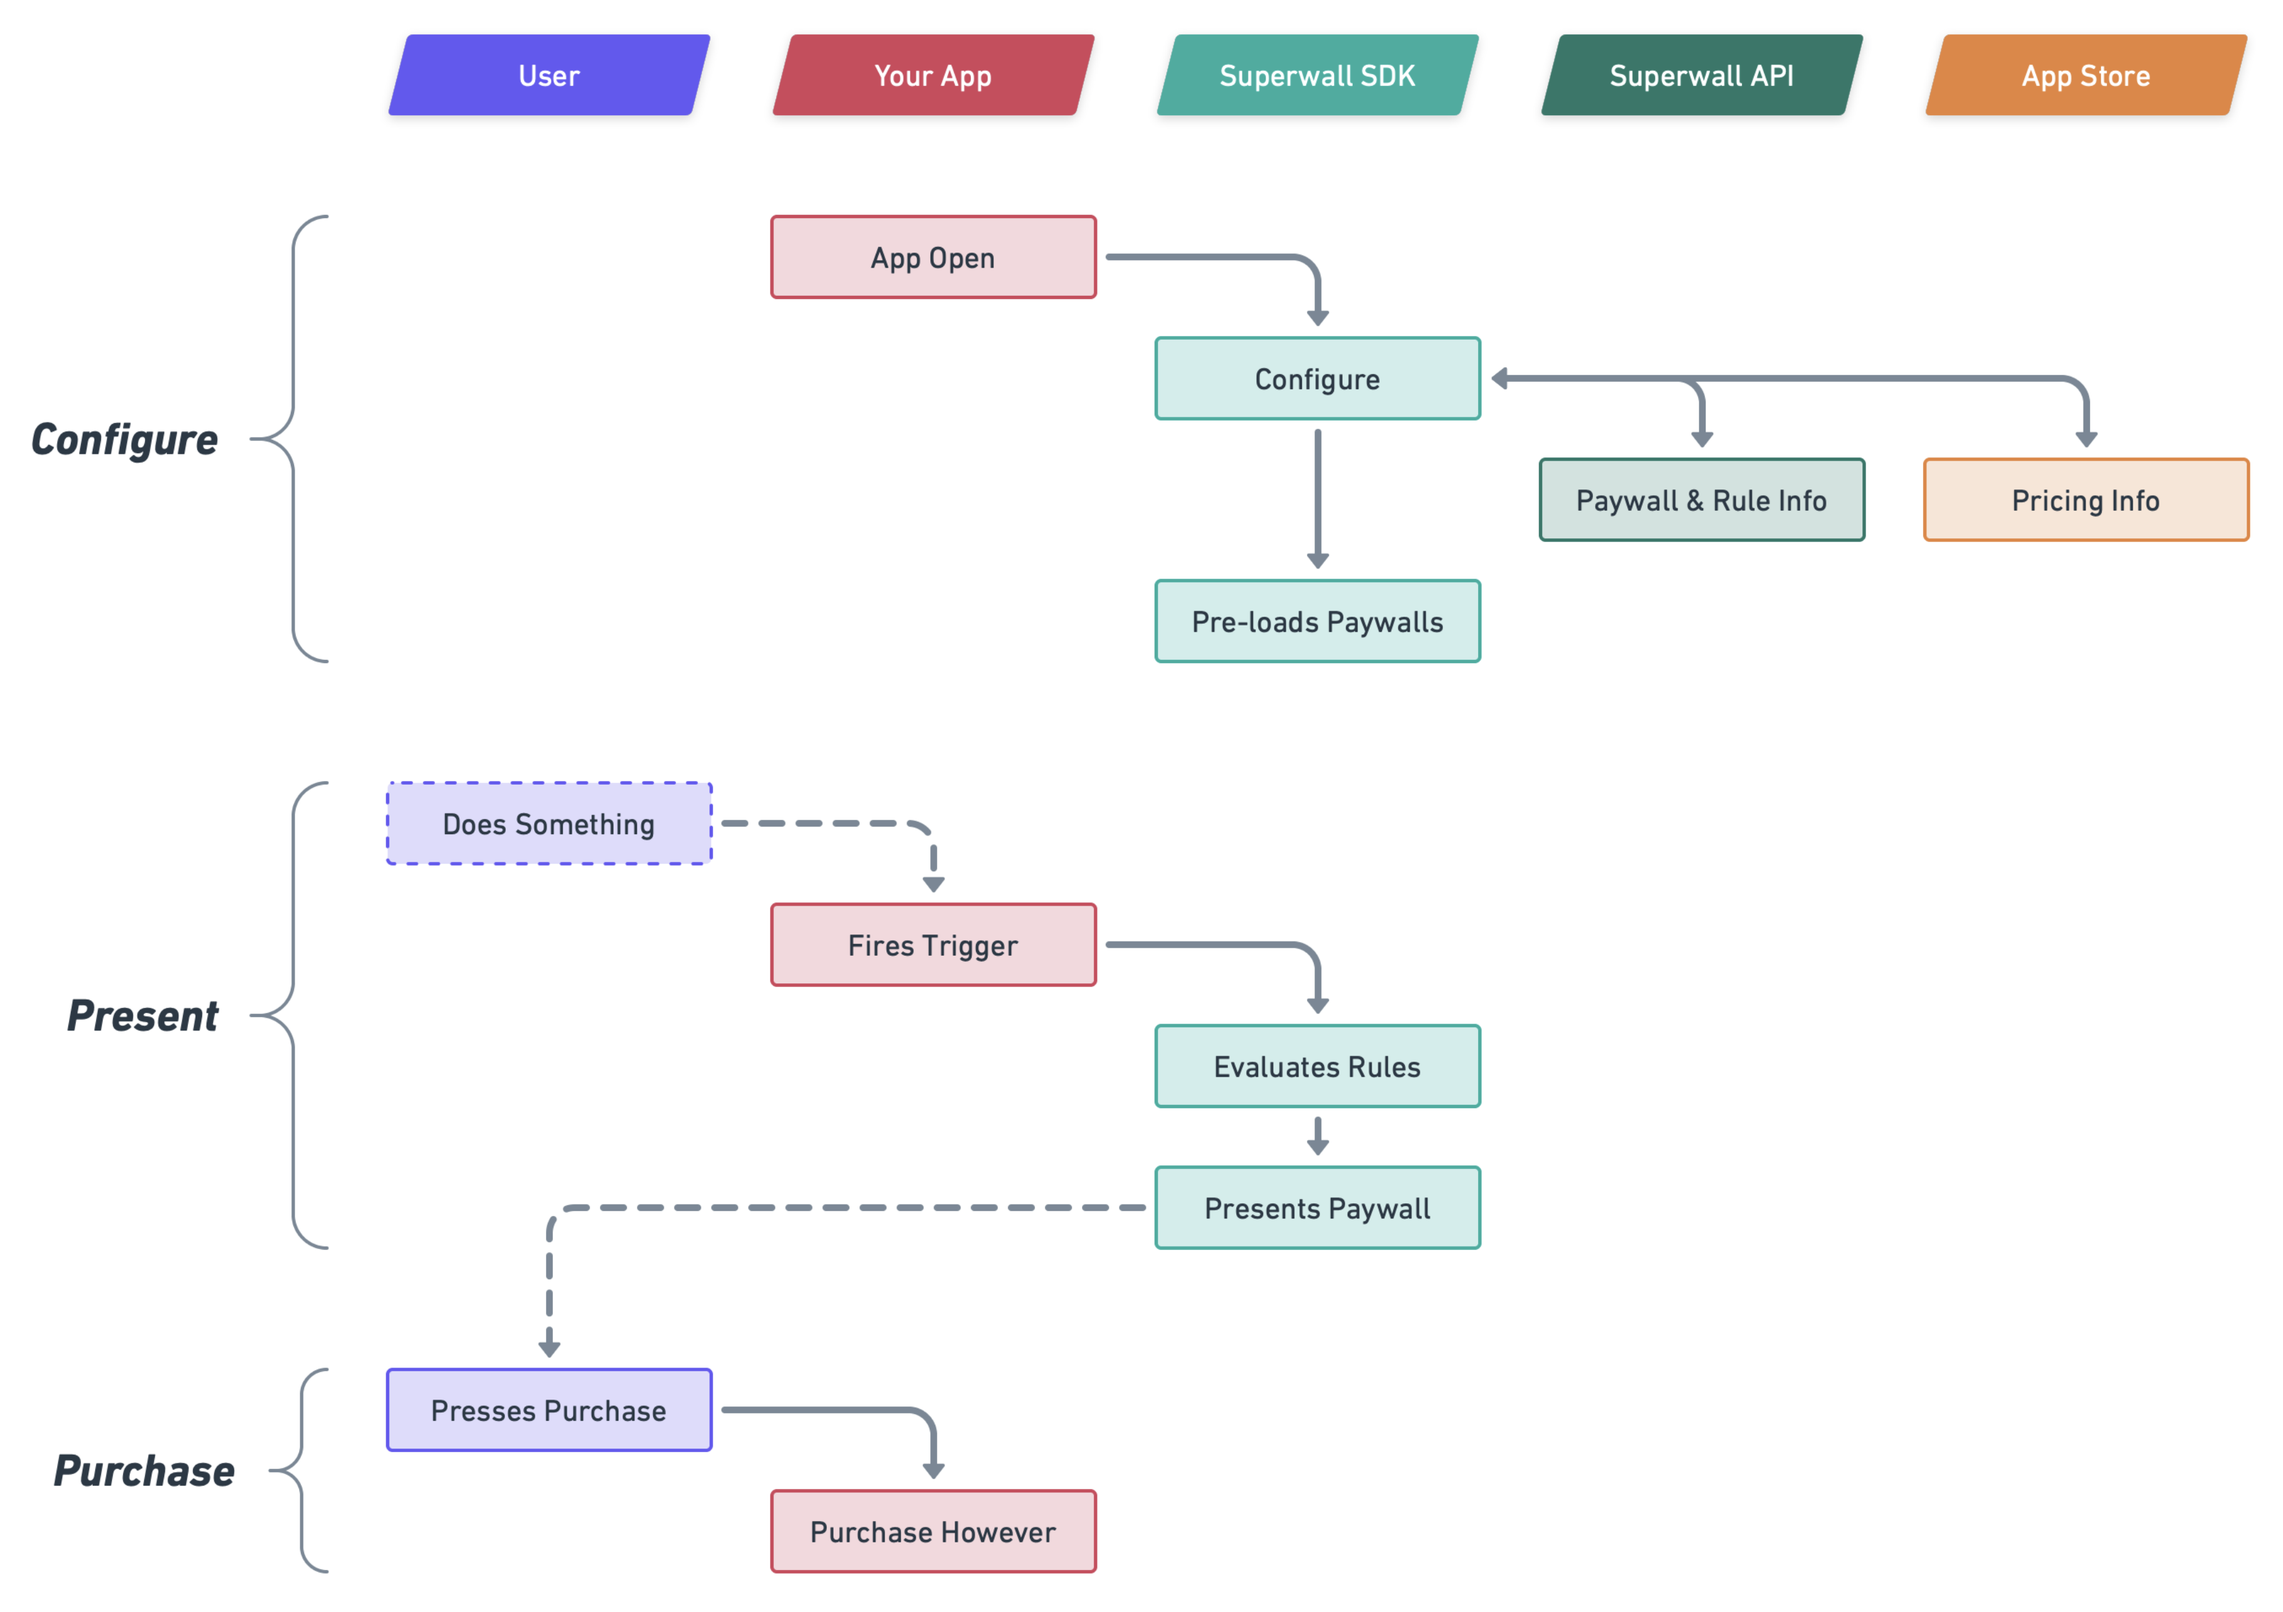
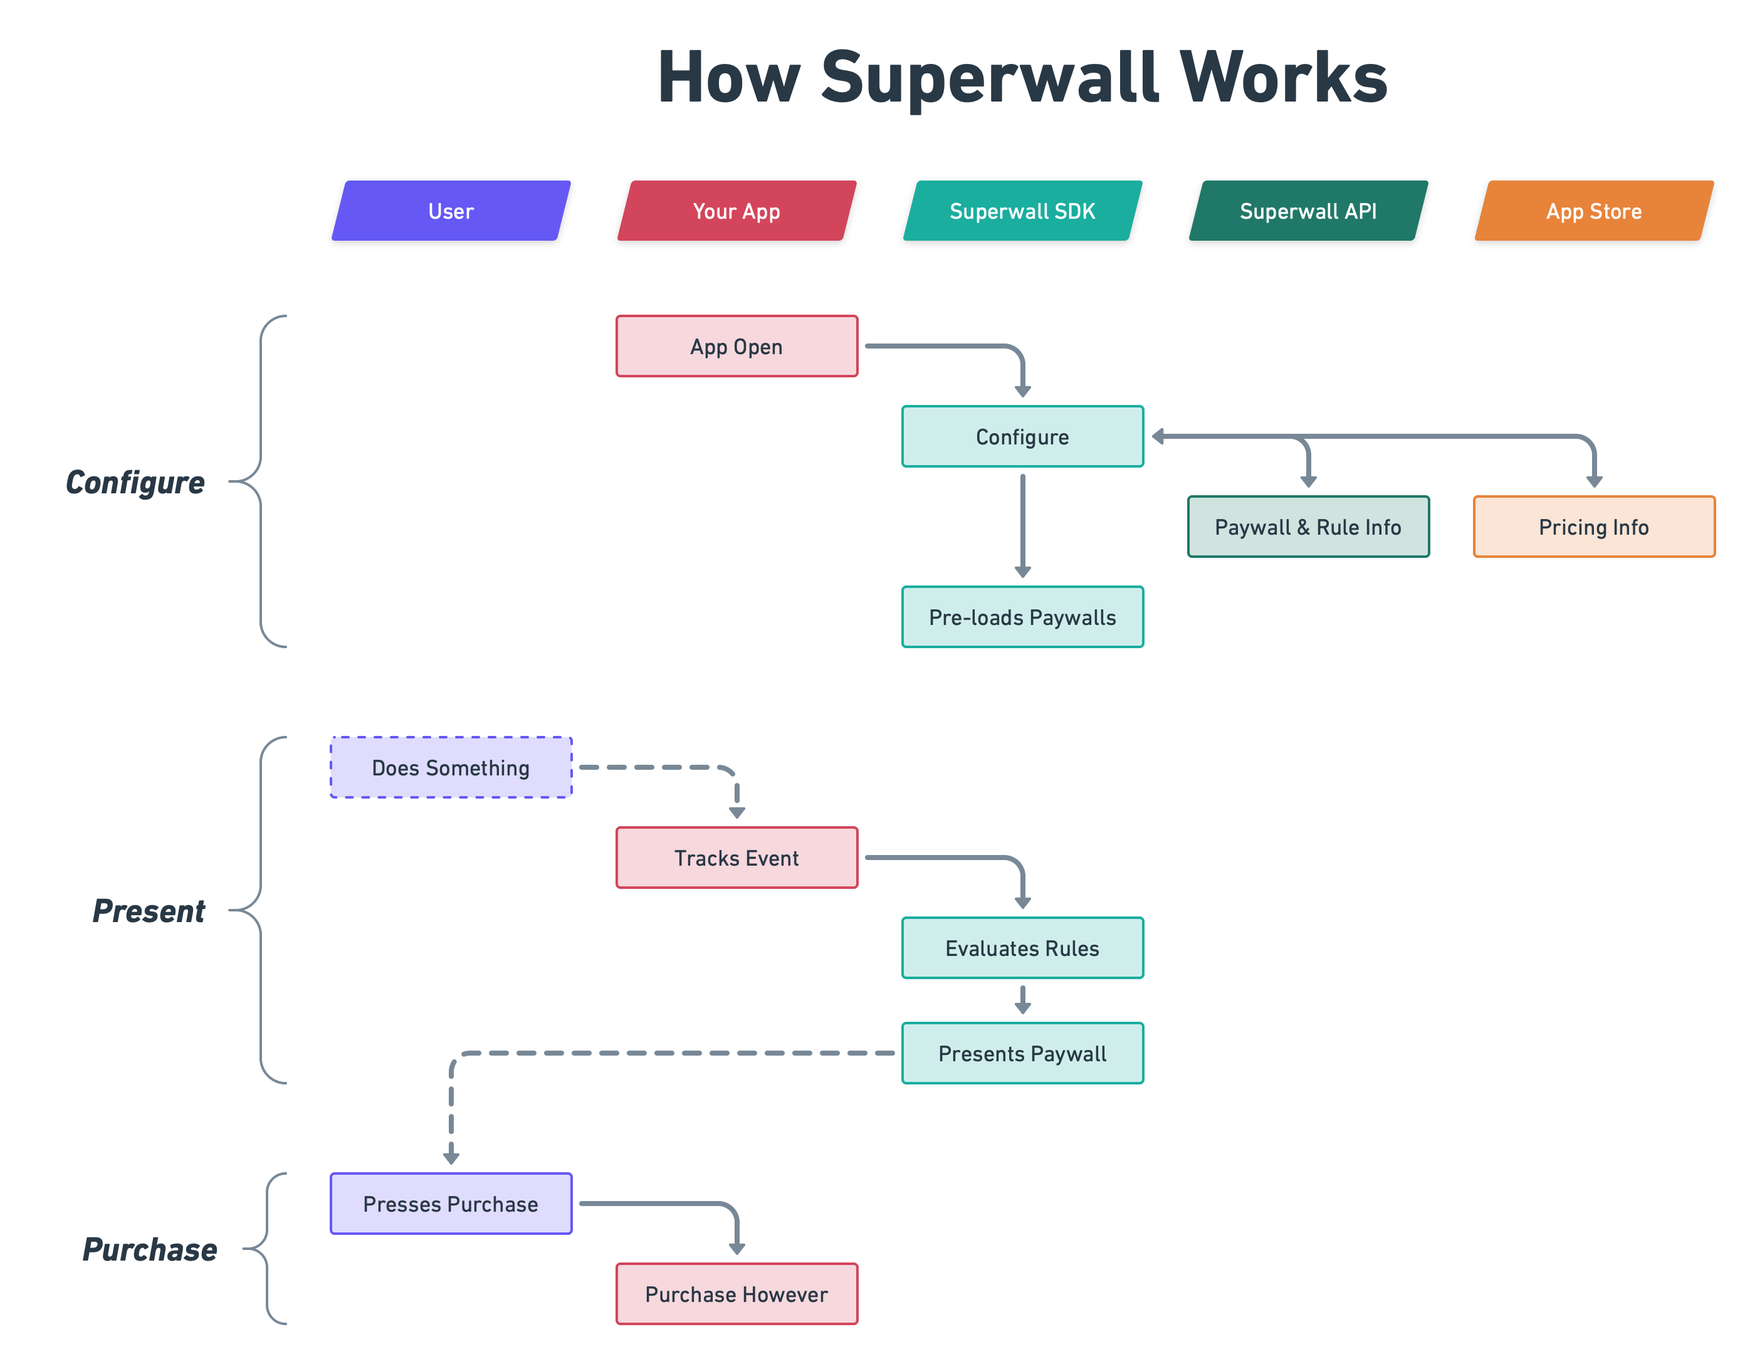
Updated documentation in relation to track

diff --git a/Sources/Paywall/Paywall/Paywall Presentation/UIKit/PublicPaywallPresentation.swift b/Sources/Paywall/Paywall/Paywall Presentation/UIKit/PublicPaywallPresentation.swift
@@ -52,7 +52,7 @@ public extension Paywall {
   ///
   /// The paywall shown to the user is determined by the rules defined in the campaign. Paywalls are sticky, in that when a user is assigned a paywall within a rule, they will continue to see that paywall unless you remove the paywall from the rule.
   ///
-  /// For more information, see <doc:Triggering>.
+  /// For more information, see <doc:TrackingEvents>.
   ///
   /// - Parameters:
   ///   -  event: The name of the event you wish to trigger (equivalent to event name in ``Paywall/Paywall/track(_:_:)-2vkwo``)
@@ -111,9 +111,9 @@ public extension Paywall {
   ///
   /// Before using this method, you'll first need to create a campaign and add the event to the campaign on the [Superwall Dashboard](https://superwall.com/dashboard).
   ///
-  /// The paywall shown to the user is determined by the rules defined in the campaign. When a user is assigned a paywall within a rule, they will continue to see that paywall unless you remove the paywall from the rule or reassign users to the rule.
+  /// The paywall shown to the user is determined by the rules defined in the campaign. When a user is assigned a paywall within a rule, they will continue to see that paywall unless you remove the paywall from the rule or reset assignments to the paywall.
   ///
-  /// For more information, see <doc:Triggering>.
+  /// For more information, see <doc:TrackingEvents>.
   ///
   /// - Parameters:
   ///   -  event: The name of the event you wish to track
@@ -146,9 +146,9 @@ public extension Paywall {
   ///
   /// Before using this method, you'll first need to create a campaign and add the event to the campaign on the [Superwall Dashboard](https://superwall.com/dashboard).
   ///
-  /// The paywall shown to the user is determined by the rules defined in the campaign. When a user is assigned a paywall within a rule, they will continue to see that paywall unless you remove the paywall from the rule or reassign users to the rule.
+  /// The paywall shown to the user is determined by the rules defined in the campaign. When a user is assigned a paywall within a rule, they will continue to see that paywall unless you remove the paywall from the rule or reset assignments to the paywall.
   ///
-  /// For more information, see <doc:Triggering>.
+  /// For more information, see <doc:TrackingEvents>.
   ///
   /// - Parameters:
   ///   -  event: The name of the event you wish to track

diff --git a/Examples/SuperwallUIKitExample/SuperwallUIKitExample/TrackEventViewController.swift b/Examples/SuperwallUIKitExample/SuperwallUIKitExample/TrackEventViewController.swift
@@ -7,11 +7,12 @@
 
 import UIKit
 import Paywall
-// import Combine
+import Combine
 
 final class TrackEventViewController: UIViewController {
   @IBOutlet private var subscriptionLabel: UILabel!
-  // private var cancellable: AnyCancellable?
+  private var subscribedCancellable: AnyCancellable?
+  private var trackCancellable: AnyCancellable?
 
   static func fromStoryboard() -> TrackEventViewController {
     let storyboard = UIStoryboard(
@@ -33,7 +34,7 @@ final class TrackEventViewController: UIViewController {
 
   override func viewDidLoad() {
     super.viewDidLoad()
-    StoreKitService.shared.isSubscribed
+    subscribedCancellable = StoreKitService.shared.isSubscribed
       .sink { [weak self] isSubscribed in
         if isSubscribed {
           self?.subscriptionLabel.text = "You currently have an active subscription. Therefore, the paywall will never show. For the purposes of this app, delete and reinstall the app to clear subscriptions."
@@ -41,7 +42,6 @@ final class TrackEventViewController: UIViewController {
           self?.subscriptionLabel.text = "You do not have an active subscription so the paywall will show when clicking the button."
         }
       }
-      .store(in: &cancellables)
   }
 
   @IBAction private func trackEvent() {
@@ -60,7 +60,6 @@ final class TrackEventViewController: UIViewController {
         case .restored:
           print("The product was restored.")
         }
-      }
       case .skipped(let reason):
         switch reason {
         case .holdout(let experiment):
@@ -72,6 +71,7 @@ final class TrackEventViewController: UIViewController {
         case .error(let error):
           print("Failed to present paywall. Consider a native paywall fallback", error)
         }
+      }
     }
   }
 
@@ -79,7 +79,7 @@ final class TrackEventViewController: UIViewController {
 
   /*
    func trackEventUsingCombine() {
-   cancellable = Paywall
+   trackCancellable = Paywall
      .track(event: "MyEvent")
      .sink { paywallState in
        switch paywallState {

diff --git a/Sources/Paywall/Paywall/Events/PublicEvents.swift b/Sources/Paywall/Paywall/Events/PublicEvents.swift
@@ -10,7 +10,7 @@ import Foundation
 public extension Paywall {
   /// Tracks a custom analytical event with optional parameters.
   ///
-  /// Any event you track is recorded in the Superwall Dashboard. You can use these events to create implicit triggers. See <doc:Triggering> for more info.
+  /// Any event you track is recorded in the Superwall Dashboard. You can use these events to create implicit triggers. See <doc:TrackingEvents> for more info.
   ///
   /// - Parameter name: The name of your event
   /// - Parameter params: Custom parameters you'd like to include in your event. Keys beginning with `$` are reserved for Superwall and will be dropped. Values can be any JSON encodable value, URLs or Dates. Arrays and dictionaries as values are not supported at this time, and will be dropped.

diff --git a/Sources/Paywall/Paywall/Paywall Presentation/SwiftUI/View+Track.swift b/Sources/Paywall/Paywall/Paywall Presentation/SwiftUI/View+Track.swift
@@ -64,7 +64,7 @@ extension View {
   ///       }
   ///     }
   ///
-  /// For more information, see <doc:Triggering>.
+  /// For more information, see <doc:TrackingEvents>.
   ///
   /// **Please note**:
   /// In order to trigger a paywall, the SDK must have been configured using ``Paywall/Paywall/configure(apiKey:userId:delegate:options:)``.

diff --git a/Sources/Paywall/Documentation.docc/Ecosystem.md b/Sources/Paywall/Documentation.docc/Ecosystem.md
@@ -6,19 +6,19 @@ An overview of how Superwall works in relation to your app.
 
 Superwall is built on 3 core principles:
 
-1. Triggers
+1. Events
 2. Rules
 3. Paywalls
 
-When your app executes a **trigger**, evaluate a **rule** to decide which **paywall** to show the user.
+When your app tracks an **event**, evaluate a **rule** to decide which **paywall** to show the user.
 
-Triggers and Rules are grouped in a concept we call **Campaigns**.
+Events and Rules are grouped in a concept we call **Campaigns**.
 
 ## Rapid Iteration
 
 Paywalls and Campaigns are all defined in the [Superwall Dashboard](https://superwall.com/dashboard). If you don't already have a Superwall account, you can [sign up for free](https://superwall.com/sign-up).
 
-Integrating the Paywall SDK into your app is usually the last time you'll have to write paywall related code.
+Integrating the Superwall SDK into your app is usually the last time you'll have to write paywall related code.
 
 This allows you to iterate on 5 key aspects of your monetization flow, without shipping app updates:
 
@@ -29,9 +29,11 @@ This allows you to iterate on 5 key aspects of your monetization flow, without s
 - Discounts
 - Paywalls
 
-Superwall uses a script called **Paywall.js** to turn websites into paywall templates. The Paywall SDK loads these websites inside a `UIWebView`, and executes javascript on them to replace text and template product information. This gives you the flexibility to turn any design into a paywall and update it remotely.
+All paywalls are websites. Superwall uses a script called **Paywall.js** to turn these websites into paywall templates. The SDK loads the websites inside a `UIWebView` and executes javascript on them to replace text and template product information. This gives you the flexibility to turn any design into a paywall and update it remotely.
 
-Since building websites can be tedious, Superwall maintains a [clonable Webflow template](https://webflow.com/website/45-Paywall-Elements?ref=showcase-search&searchValue=superwall) including ~50 of the most prominent paywall elements we've seen across thousands of apps.
+Since building websites can be tedious, we maintain a growing list of highly converting paywall templates for you to choose from. These designs are used by some of the biggest apps on the App Store and are perfect to get you up and running in no time.
+
+However, if you'd like to build your own paywall website from scratch, we recommend using Webflow. We maintain a [clonable Webflow template](https://webflow.com/website/45-Paywall-Elements?ref=showcase-search&searchValue=superwall) that includes ~50 of the most prominent paywall elements we've seen across thousands of apps, which you're welcome to use.
 
 ## Rules
 
@@ -39,9 +41,9 @@ Rules allow you to conditionally show a paywall to a user. For example, you may 
 
 Rule evaluations happen client side, so no network requests are fired to determine whether or not to show a paywall.
 
-## Triggers
+## Events
 
-A trigger is an analytics event you can wire up to specific rules. The Paywall SDK listens for these analytics events and evaluates their rules to determine whether or not to show a paywall when the trigger is fired.
+Events are added to campaigns and are tracked via the SDK. The SDK listens for these events and evaluates their rules to determine whether or not to show a paywall.
 
 ## Inner workings of the SDK
 

diff --git a/Sources/Paywall/Documentation.docc/TrackingEvents.md b/Sources/Paywall/Documentation.docc/TrackingEvents.md
@@ -1,0 +1,81 @@
+# Tracking Events
+
+Show a paywall in your app in response to a tracked event.
+
+## Overview
+
+You can retroactively decide where and when to show a paywall in your app by tracking events.
+
+Events are added to campaigns on the [Superwall Dashboard](https://superwall.com/dashboard) and are tracked via the SDK. The SDK listens for these events and evaluates their rules to determine whether or not to show a paywall.
+
+When a user is assigned a paywall within a rule, they will continue to see that paywall unless you remove the paywall from the rule or reset assignments to the paywall.
+
+In addition to your own events, you can add the Superwall events `app_install`, `app_launch`, and `session_start` to a campaign. See [automatically tracked events](<doc:AutomaticallyTrackedEvents>) for more.
+
+## Presenting a Paywall
+
+When you sign up for a Superwall account, we give you an example paywall and campaign to test your integration. The example campaign contains an event called `campaign_trigger`, which you'll track in your app when you want to show the paywall.
+
+For both SwiftUI and UIKit apps, you use ``Paywall/Paywall/track(event:params:paywallOverrides:paywallState:)`` to track events:
+
+```swift
+Superwall.track(
+  event: "campaign_trigger"
+) { paywallState in
+  switch paywallState {
+  case .presented(let paywallInfo):
+    break
+  case .dismissed(let result):
+    break
+  case .skipped(let reason):
+    break
+}
+```
+
+In this example, you're tracking the event `campaign_trigger`. You then utilize the optional `paywallState` callback to handle the paywall presentation state. You can also pass parameters to be used in rules and overrides to replace default paywall functionality.
+
+We recommend tracking all of your analytical events to Superwall. That way you can retroactively add a paywall to any of your events, should you decide to.
+
+## Integrating with Existing Analytics
+
+If you're already set up with an analytics provider, you'll typically have an `Analytics.swift` singleton (or similar) to disperse all your events from. Here's how that file might look:
+
+```swift
+import Paywall
+import Mixpanel
+import Firebase
+
+final class Analytics {
+  static let shared = Analytics()
+  
+  func track(
+    event: String,
+    properties: [String: Any]
+  ) {
+    // Superwall
+    Superwall.track(
+      event: event,
+      params: properties
+    )
+    
+    // Firebase (just an example)
+    Firebase.Analytics.logEvent(event, parameters: properties)
+    
+    // Mixpanel (just an example)
+    Mixpanel.mainInstance().track(event: eventName, properties: properties)
+  }
+}
+```
+
+Therefore you can track all your analytics in one go. For example:
+  
+```swift
+Analytics.shared.track(
+  "workout_complete",
+  ["total_workouts": 17]
+)
+```
+
+### Using Your Own Paywalls
+
+Now that you've presented the example paywall, it's time to set up your own paywall. First you'll need to [build your paywall](https://docs.superwall.com/docs/overview). Next, you need to [configure your paywall](https://docs.superwall.com/docs/configuring-a-paywall) and [create a campaign](https://docs.superwall.com/docs/campaigns). You can then use this in your app in the same way as you did above!

diff --git a/Sources/Paywall/Documentation.docc/Paywall.md b/Sources/Paywall/Documentation.docc/Paywall.md
@@ -4,14 +4,14 @@ The client SDK for [Superwall](https://superwall.com), a service that lets you r
 
 ## Overview
 
-Paywall makes it easy to show paywalls in your app using UIKit or SwiftUI. If you haven't already, [sign up for a free Superwall account](https://superwall.com/sign-up). Configure the SDK with your API key and show our example paywall in response to a tracked event. When you're ready to use your own paywalls, head to the Superwall dashboard and use the paywall editor to configure them. Then, create a Campaign and define conditions for when the paywalls are shown to users. You can also display information about the user on the paywall by setting ``Paywall/Paywall/userAttributes``.
+Paywall makes it easy to show paywalls in your app using UIKit or SwiftUI. If you haven't already, [sign up for a free Superwall account](https://superwall.com/sign-up). Configure the SDK with your API key and present our example paywall in response to a tracked event. When you're ready to use your own paywalls, head to the Superwall dashboard and use the paywall editor to configure them. Then, create a Campaign and define rules for when the paywalls are shown to users.
 
 ## Topics
 
 ### Essentials
 - <doc:Ecosystem>
 - <doc:GettingStarted>
-- <doc:Triggering>
+- <doc:TrackingEvents>
 - ``Paywall/Paywall``
 - ``PaywallOptions``
 

diff --git a/Sources/Paywall/Documentation.docc/AutomaticallyTrackedEvents.md b/Sources/Paywall/Documentation.docc/AutomaticallyTrackedEvents.md
@@ -4,7 +4,7 @@ Events that are automatically tracked via the SDK and power the charts in the Su
 
 ## Overview
 
-The SDK automatically tracks the below events. Some of these can trigger paywalls. We encourage you to track them in your own analytics and use them to trigger paywalls on the dashboard if supported, as described in [Triggering a Paywall](<doc:Triggering>).
+The SDK automatically tracks the below events. Some of these can trigger paywalls. We encourage you to track them in your own analytics and use them to trigger paywalls on the dashboard if supported, as described in [Triggering a Paywall](<doc:TrackingEvents>).
 
 Event Name | Action | Can Trigger Paywalls
 --- | --- | ---

diff --git a/Sources/Paywall/Documentation.docc/GettingStarted.md b/Sources/Paywall/Documentation.docc/GettingStarted.md
@@ -1,4 +1,4 @@
-# Getting Started with Paywall
+# Getting Started with Superwall
 
 Configuring the SDK and its delegate.
 
@@ -92,7 +92,7 @@ final class AppDelegate: UIResponder, UIApplicationDelegate {
 }
 ```
 
-You're now ready to trigger a paywall. See <doc:Triggering> for next steps.
+You're now ready to track an event to present your first paywall. See <doc:TrackingEvents> for next steps.
 
 ## Topics
 

diff --git a/Sources/Paywall/Documentation.docc/Extensions/PaywallExtension.md b/Sources/Paywall/Documentation.docc/Extensions/PaywallExtension.md
@@ -19,7 +19,7 @@ The ``Paywall/Paywall`` class is used to access all the features of the SDK. Bef
 
 ### Presenting and Dismissing a Paywall
 
-- <doc:Triggering>
+- <doc:TrackingEvents>
 - ``track(event:params:paywallOverrides:paywallState:)``
 - ``track(event:params:paywallOverrides:)``
 - ``dismiss(_:)``
